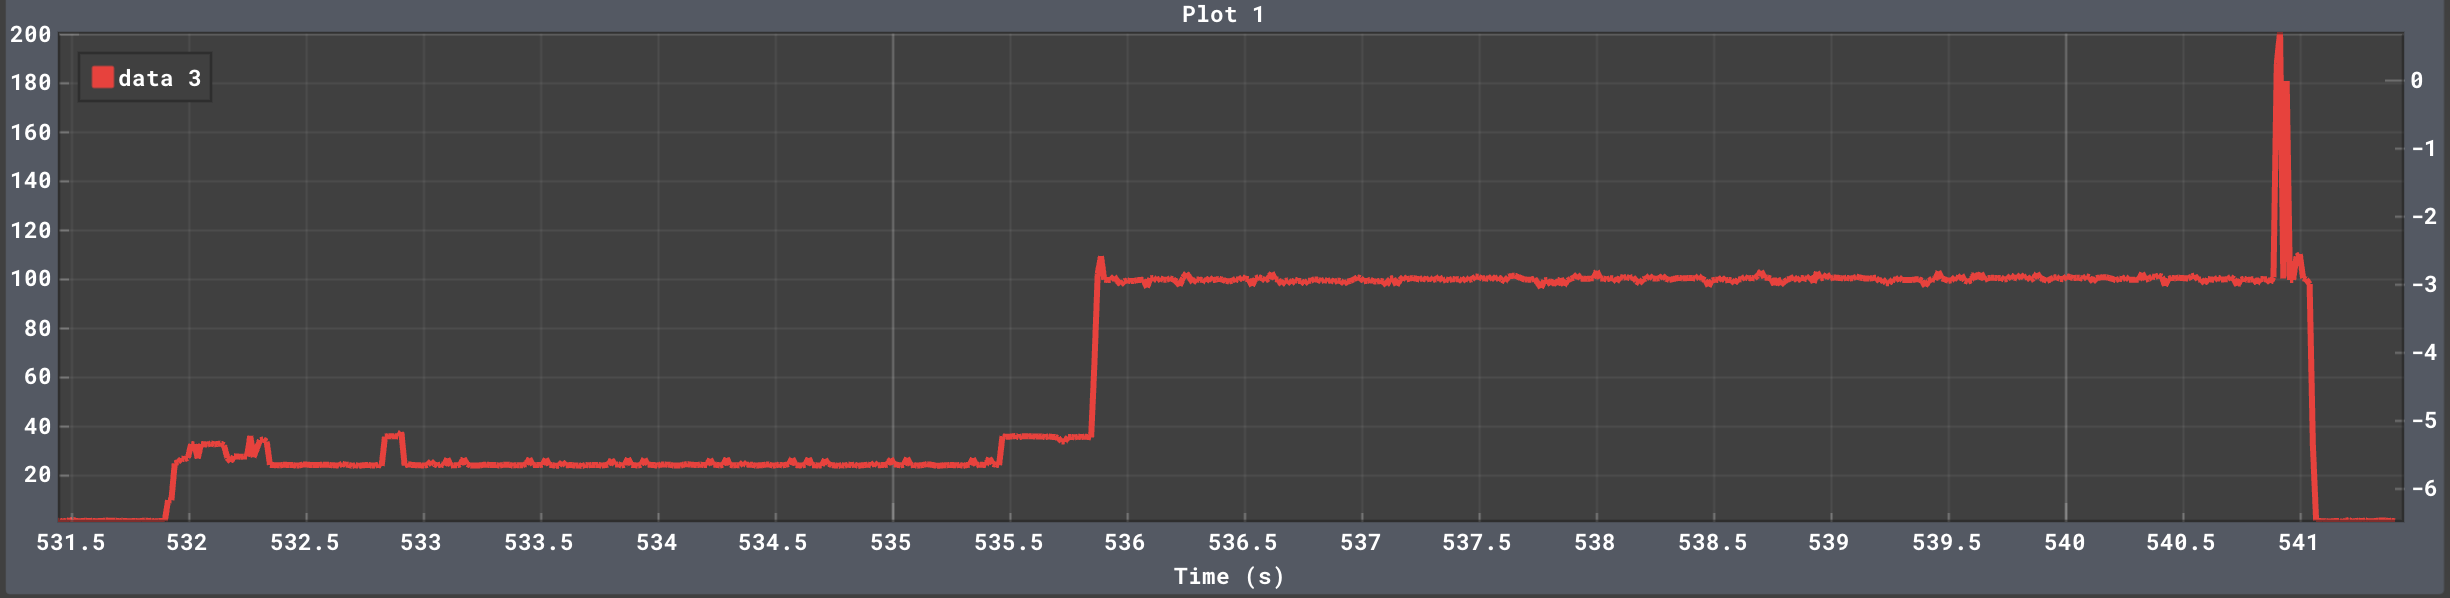
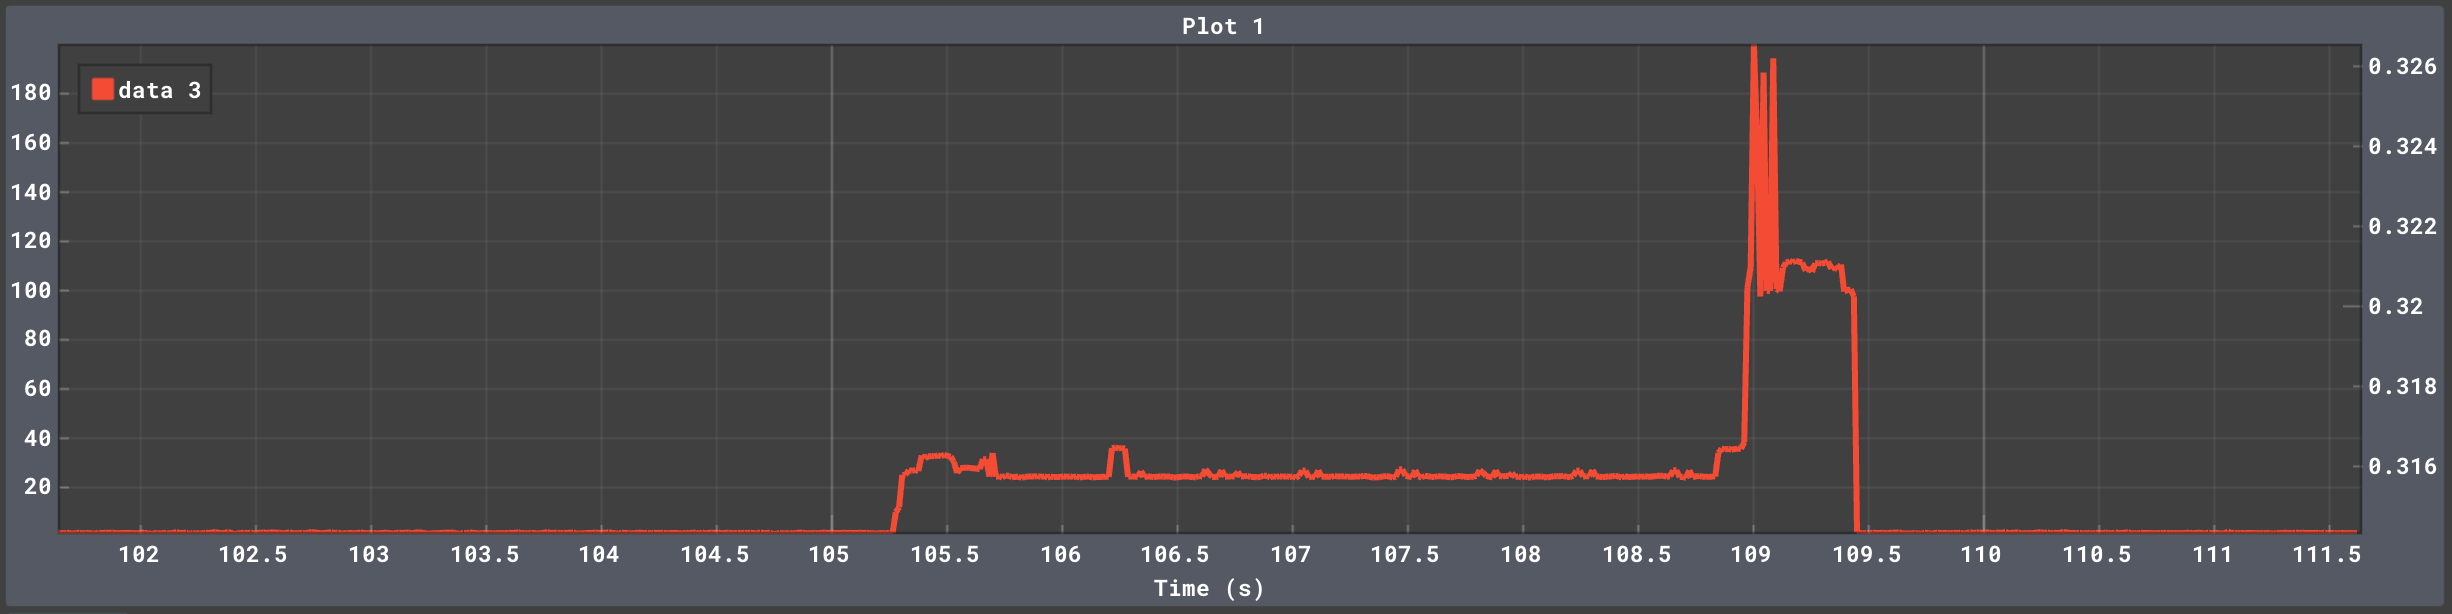
feat(presentation): update presentation files and slides with new content and images

diff --git a/3rd-presentation/slides/04_connectivity.tex b/3rd-presentation/slides/04_connectivity.tex
@@ -1,62 +1,41 @@
 %:ADXL362: merged comparison + rationale ---
 \begin{frame}[shrink=15]{Wake-up Sensor: LM393 $\rightarrow$ ADXL362}
+
 \begin{columns}[T,onlytextwidth]
-
-\begin{column}{0.54\textwidth}
-  \begin{columns}[T,onlytextwidth]
-  \begin{column}{0.48\textwidth}
-    \begin{colorblock}[white]{sintefred}{\small Before}
-    \scriptsize
-    LM393 comparator\\[2pt]
-    Always-on: $1.5\,\text{mA}$\\
-    Piezo-based, no data\\
-    Manual threshold (trimmer)
-    \end{colorblock}
-  \end{column}
-  \begin{column}{0.48\textwidth}
-    \begin{colorblock}[white]{maincolor}{\small After}
-    \scriptsize
-    ADXL362 accelerometer\\[2pt]
-    Activity detect: $270\,\text{nA}$\\
-    INT1 $\rightarrow$ GPIO wakeup\\
-    \textbf{5500$\times$ less current}
-    \end{colorblock}
-  \end{column}
-  \end{columns}
-
-  \vspace{0.35cm}
-  \begin{itemize}\setlength\itemsep{5pt}
-    \item \textbf{SW-configurable threshold}: activity level set via SPI register; no physical potentiometer needed on re-deployment
-    \item \textbf{200\,Hz sampling}: window vibrations are sub-100\,Hz; 100$\times$ less ADC active time vs.\ 20\,kHz piezo
-    \item \textbf{Internal mount}: avoids weather exposure; tunable SW threshold compensates for reduced sensitivity
-  \end{itemize}
+\begin{column}{0.48\textwidth}
+  \begin{colorblock}[white]{sintefred}{\small Before}
+  \scriptsize
+  LM393 comparator\\[2pt]
+  Always-on: $1.5\,\text{mA}$\\
+  Piezo-based, no data\\
+  Manual threshold (trimmer)
+  \end{colorblock}
 \end{column}
+\hfill
+\begin{column}{0.48\textwidth}
+  \begin{colorblock}[white]{maincolor}{\small After}
+  \scriptsize
+  ADXL362 accelerometer\\[2pt]
+  Activity detect: $270\,\text{nA}$\\
+  INT1 $\rightarrow$ GPIO wakeup\\
+  \textbf{5500$\times$ less current}
+  \end{colorblock}
+\end{column}
+\end{columns}
 
-\begin{column}{0.42\textwidth}
-\centering
-\small\textbf{ADC active time per second}\\[10pt]
-\begin{tikzpicture}[scale=1.0]
-  % Old: Piezo 20kHz — full bar (top)
-  \fill[sintefred!70] (0, 1.2) rectangle (3.0, 1.85);
-  \node[font=\scriptsize, anchor=west] at (0.05, 1.52) {\textcolor{white}{Piezo 20\,kHz}};
-  \node[font=\tiny,  anchor=west] at (3.07, 1.52) {100\%};
-  % New: ADXL362 200Hz — 1% bar (exaggerated to min visible width)
-  \fill[sintefgreen!80] (0, 0.2) rectangle (0.08, 0.85);
-  \node[font=\scriptsize, anchor=west] at (0.10, 0.52) {ADXL362 200\,Hz};
-  \node[font=\tiny,  anchor=west] at (3.07, 0.52) {1\%};
-  % Axis
-  \draw[->] (0, 0) -- (3.3, 0) node[right, font=\tiny]{active fraction};
-  \node[font=\tiny, below=2pt] at (0,   0) {0};
-  \node[font=\tiny, below=2pt] at (3.0, 0) {100\%};
-\end{tikzpicture}
 \vspace{0.3cm}
+\begin{itemize}\setlength\itemsep{4pt}
+  \item \textbf{SW-configurable threshold}: activity level set via SPI register; no physical potentiometer needed on re-deployment
+  \item \textbf{200\,Hz sampling}: window vibrations are sub-100\,Hz
+  \item \textbf{Internal mount}: avoids weather exposure; tunable SW threshold compensates for reduced sensitivity
+\end{itemize}
+
+\vspace{0.2cm}
 \begin{block}{Net effect}
 \scriptsize Threshold reconfiguration: SPI register write at boot; no physical enclosure access required.\\
 HW threshold ($150$\,mg default) blocks traffic, HVAC, footsteps: MCU never wakes on ambient vibrations.
 \end{block}
-\end{column}
 
-\end{columns}
 \note{
   The original design used a piezoelectric disc + LM393 comparator. The LM393
   threshold was set by a physical potentiometer trimmer on the PCB; every time

diff --git a/3rd-presentation/slides/04_summary.tex b/3rd-presentation/slides/04_summary.tex
@@ -17,7 +17,7 @@
   \begin{colorblock}[white]{maincolor}{Result}
   \large
   \begin{itemize}
-    \item 512-pt FFT, 51 features
+    \item 256-pt FFT, 51 features
     \item Online K-Means++ ($K=10$) trained on-site
     \item Per-cluster $\mu + 3\sigma$ threshold
   \end{itemize}